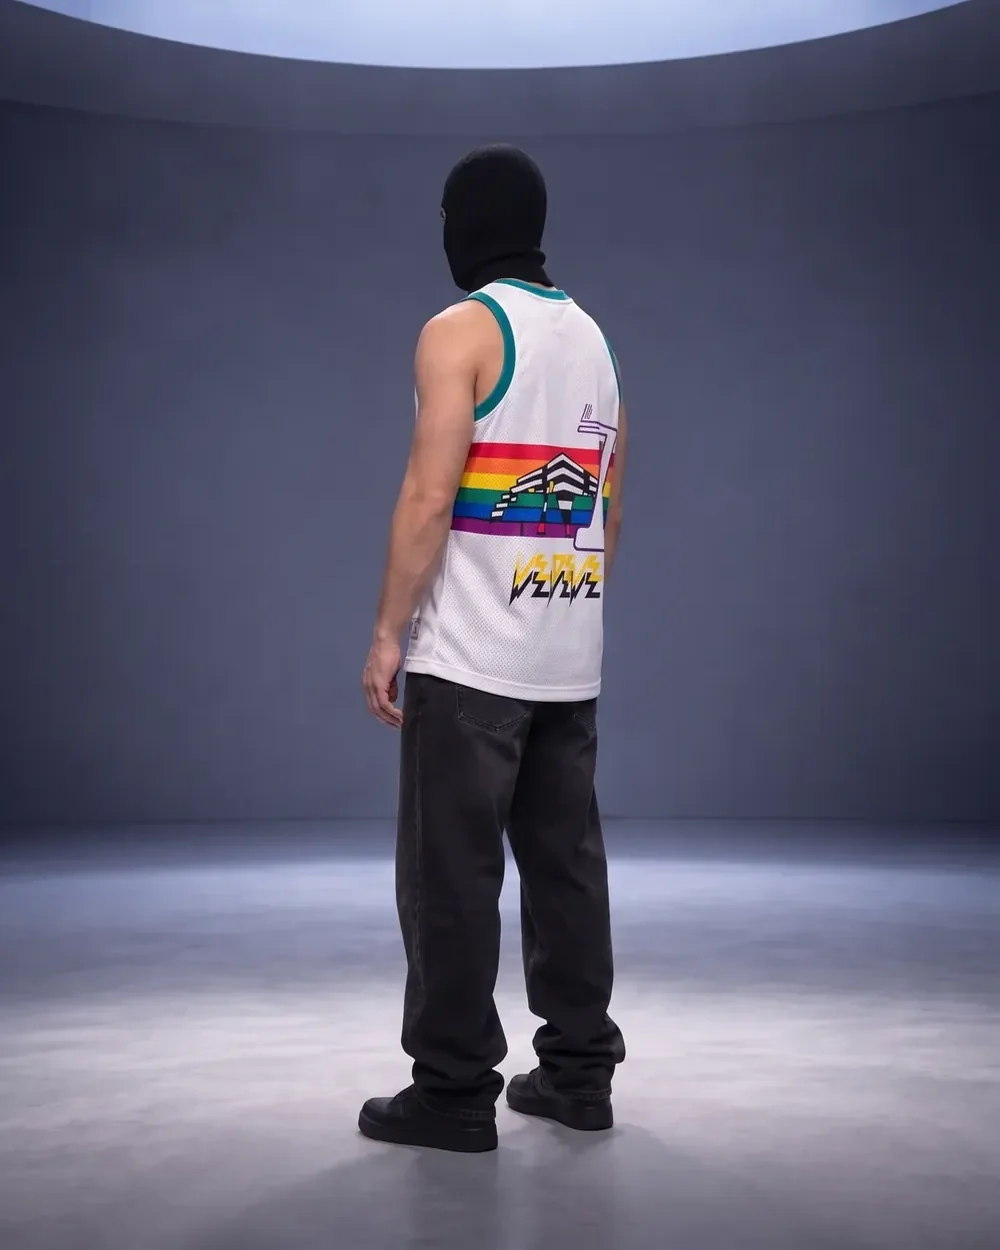
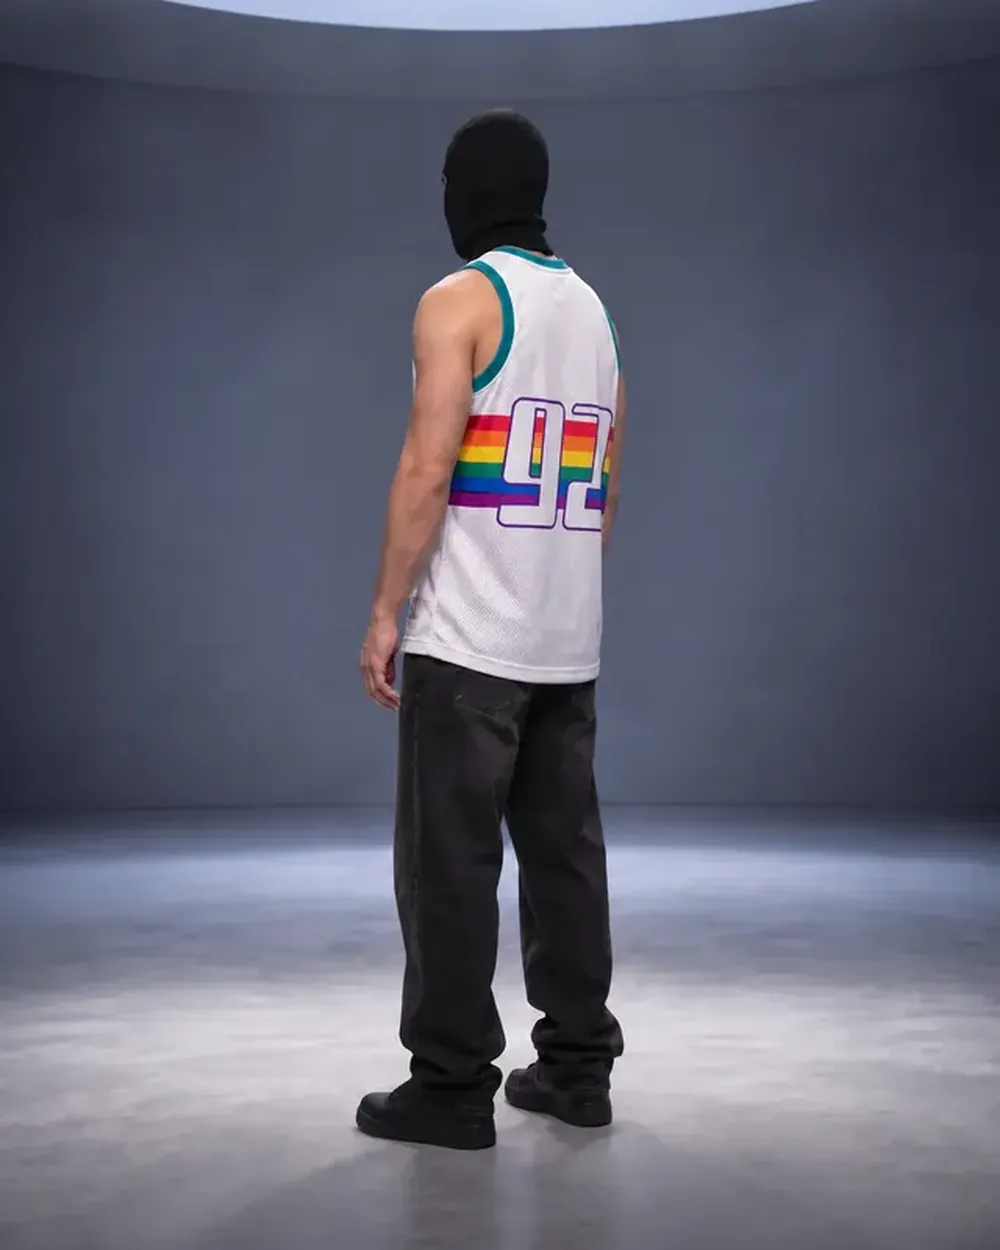
Cabine: tank back print is pink (as real product), rainbow jersey back 92 fixed, add bag carried frames; remove temp files
Claude-Session: https://claude.ai/code/session_01JHKczBwFKYFofkfxCnLE6j

diff --git a/src/data/collection.ts b/src/data/collection.ts
@@ -334,6 +334,7 @@ export const collection: CollectionItem[] = [
     spot: { x: 5.85, y: 48.9, w: 10.5, h: 12.5 },
     front: P + "sac-vedette-front.webp",
     back: null,
+    cabine: C + "sac-vedette",
     turntable: { mp4: T + "sac-vedette.mp4", webm: T + "sac-vedette.webm" },
   },
 ];
